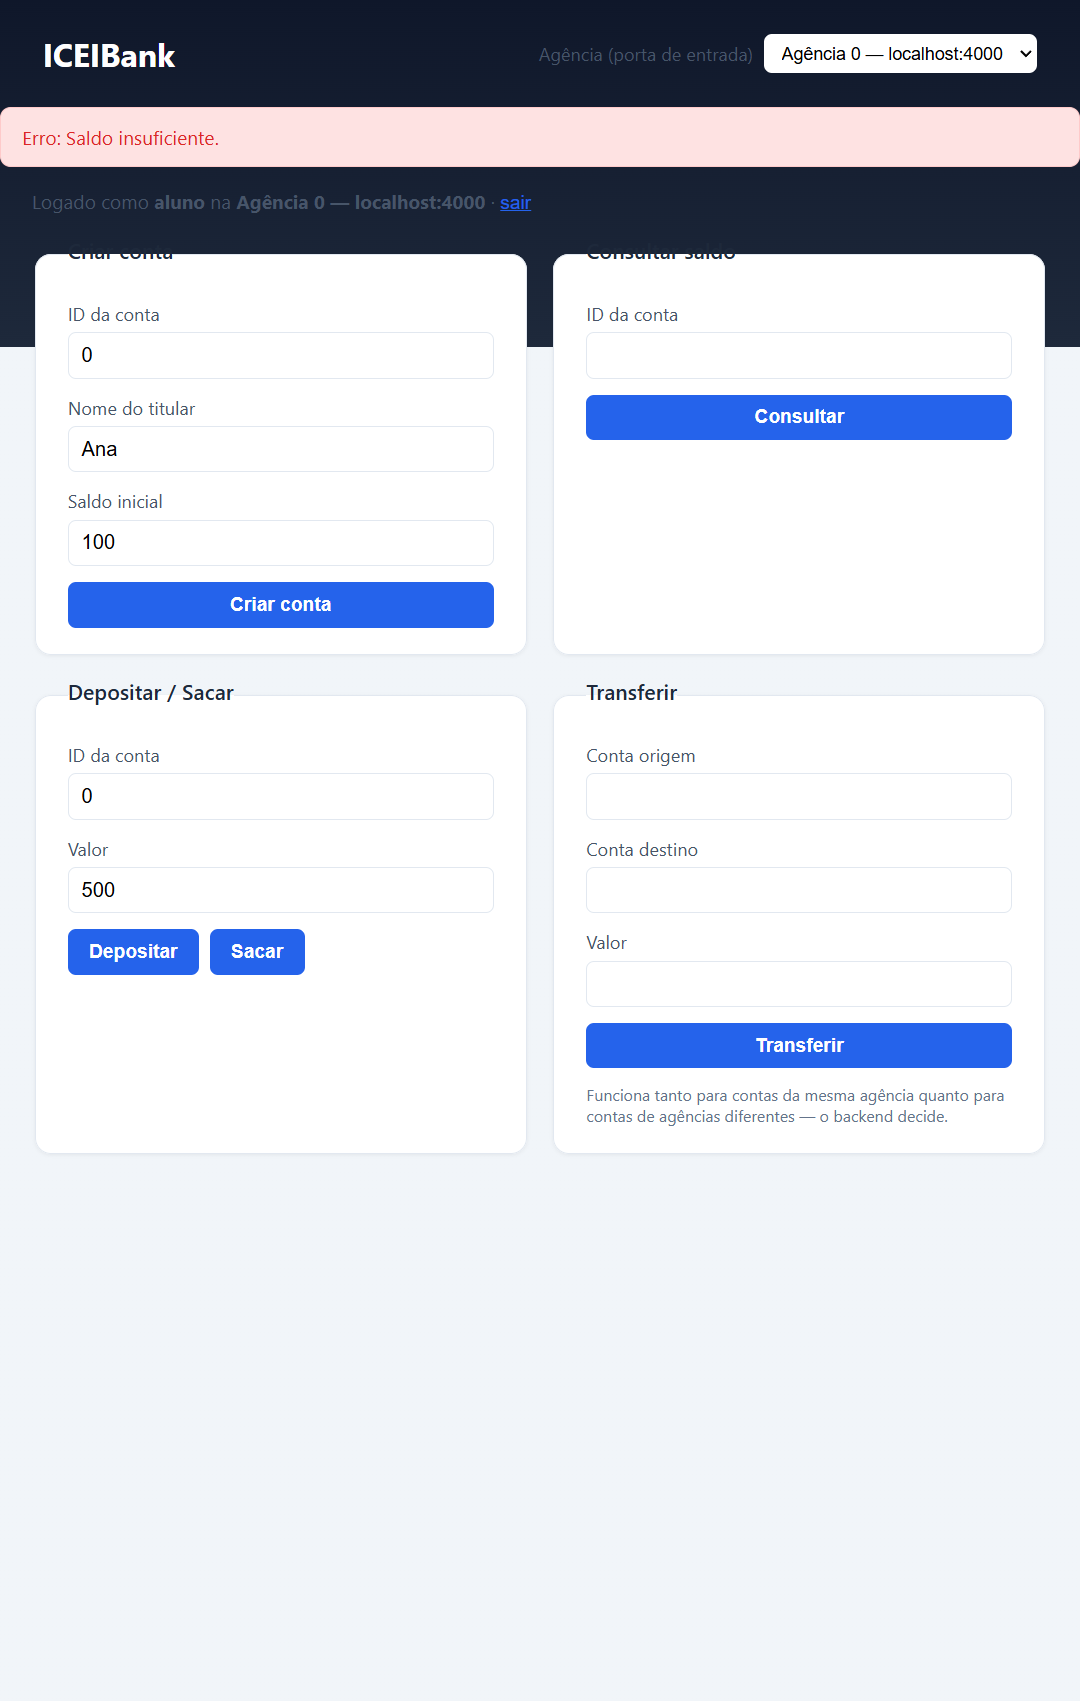
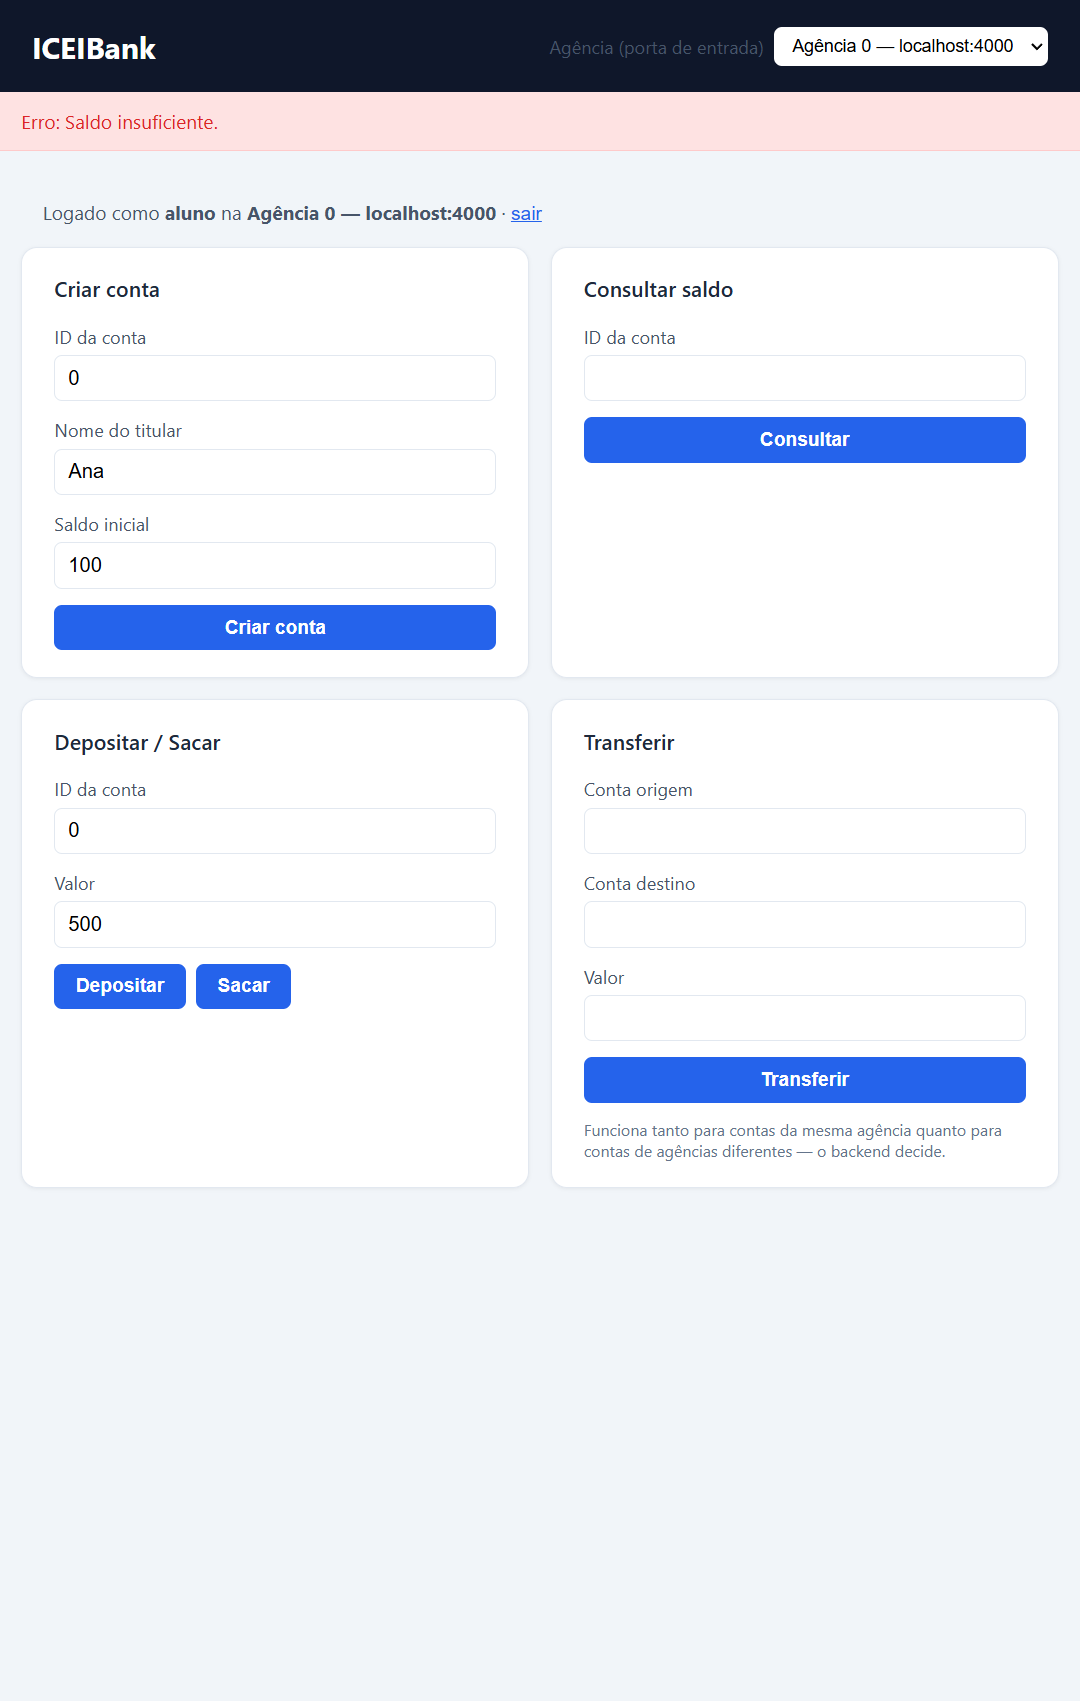
fix(frontend): corrige sobreposicao de layout e melhora responsividade
Causa raiz: <legend> dentro de <fieldset> tem renderizacao especial no
HTML/CSS - o navegador desenha o legend "a cavaleiro" da borda do
fieldset, podendo ficar fora da area de fundo (branca) do card. Como o
fundo da pagina usava um gradiente com parada fixa em 260px (nao
acompanhava a altura real do cabecalho + banner de mensagem, que e
variavel), os titulos dos cards apareciam sobrepostos ao fundo escuro do
cabecalho.

Correcao:
- Troca <fieldset>/<legend> por <div>/<h3> nos 4 cards - elimina de vez o
  comportamento de renderizacao do legend.
- Remove o gradiente de altura fixa; cabecalho vira um bloco de cor solida
  e a pagina usa fundo solido, sem depender da altura do conteudo.
- Adiciona overflow-x: hidden, largura maxima 100% em inputs/select, grid
  com breakpoint auto-fit revisado e uma media query para telas <= 480px.

Testado de verdade em um Chrome real (CDP), em 3 larguras: 1080px
(desktop), 768px (tablet) e 390px (mobile) - sem sobreposicao e sem
overflow horizontal em nenhuma. Screenshots de evidencia
(frontend-login.png, frontend-erro.png, frontend-transferencia.png)
recapturados com o layout corrigido.

Changed region(s): [[0.0, 0.0, 1.0, 0.592], [0.5194, 0.4985, 0.9472, 0.6855], [0.55, 0.4051, 0.6417, 0.4674]]

diff --git a/frontend/styles.css b/frontend/styles.css
@@ -1,5 +1,6 @@
 :root {
-  --cor-fundo: #0f172a;
+  --cor-fundo-pagina: #f1f5f9;
+  --cor-cabecalho: #0f172a;
   --cor-cartao: #ffffff;
   --cor-texto: #1e293b;
   --cor-primaria: #2563eb;
@@ -13,27 +14,36 @@
   box-sizing: border-box;
 }
 
+html,
+body {
+  max-width: 100%;
+  overflow-x: hidden;
+}
+
 body {
   margin: 0;
   font-family: system-ui, -apple-system, "Segoe UI", sans-serif;
-  background: linear-gradient(180deg, var(--cor-fundo) 0%, #1e293b 260px, #f1f5f9 260px);
+  background: var(--cor-fundo-pagina);
   color: var(--cor-texto);
   min-height: 100vh;
 }
 
+/* Cabecalho: cor solida, altura definida pelo proprio conteudo - nunca
+   depende de quanto o resto da pagina mede (era a causa da sobreposicao). */
 .topo {
   display: flex;
   justify-content: space-between;
   align-items: center;
   flex-wrap: wrap;
-  gap: 1rem;
-  padding: 1.5rem 2rem;
+  gap: 0.75rem 1.5rem;
+  padding: 1.25rem 1.5rem;
+  background: var(--cor-cabecalho);
   color: white;
 }
 
 .topo h1 {
   margin: 0;
-  font-size: 1.5rem;
+  font-size: 1.4rem;
 }
 
 .agencia-config {
@@ -41,38 +51,40 @@ body {
   align-items: center;
   gap: 0.5rem;
   font-size: 0.85rem;
+  flex-wrap: wrap;
 }
 
 .agencia-config select {
   padding: 0.4rem 0.6rem;
   border-radius: 6px;
   border: none;
+  max-width: 100%;
 }
 
 main {
   max-width: 960px;
   margin: 0 auto;
-  padding: 0 1.5rem 3rem;
+  padding: 1.5rem 1rem 3rem;
 }
 
 .mensagem {
   max-width: 960px;
-  margin: 0 auto 1rem;
+  margin: 0 auto;
   padding: 0.75rem 1rem;
-  border-radius: 8px;
+  border-radius: 0;
   font-size: 0.9rem;
 }
 
 .mensagem.erro {
   background: #fee2e2;
   color: var(--cor-erro);
-  border: 1px solid #fecaca;
+  border-bottom: 1px solid #fecaca;
 }
 
 .mensagem.sucesso {
   background: #dcfce7;
   color: var(--cor-sucesso);
-  border: 1px solid #bbf7d0;
+  border-bottom: 1px solid #bbf7d0;
 }
 
 .cartao {
@@ -83,18 +95,19 @@ main {
   box-shadow: 0 1px 3px rgba(0, 0, 0, 0.06);
 }
 
+.cartao h3 {
+  margin: 0 0 1rem;
+  font-size: 1rem;
+  font-weight: 600;
+}
+
 #secao-login {
   max-width: 360px;
   margin: 2rem auto 0;
 }
 
-fieldset {
-  border: none;
-}
-
-legend {
-  font-weight: 600;
-  padding: 0 0 0.5rem;
+#secao-login h2 {
+  margin-top: 0;
 }
 
 form {
@@ -112,6 +125,7 @@ label {
 }
 
 input {
+  width: 100%;
   padding: 0.5rem 0.6rem;
   border: 1px solid var(--cor-borda);
   border-radius: 6px;
@@ -136,6 +150,7 @@ button:hover {
 .botoes {
   display: flex;
   gap: 0.5rem;
+  flex-wrap: wrap;
 }
 
 .link {
@@ -149,11 +164,15 @@ button:hover {
 .sessao {
   color: #475569;
   font-size: 0.9rem;
+  padding: 0.75rem 1rem 0;
+  margin: 0;
+  max-width: 960px;
+  margin-inline: auto;
 }
 
 .grade {
   display: grid;
-  grid-template-columns: repeat(auto-fit, minmax(280px, 1fr));
+  grid-template-columns: repeat(auto-fit, minmax(260px, 1fr));
   gap: 1rem;
   margin-top: 1rem;
 }
@@ -161,10 +180,22 @@ button:hover {
 .resultado {
   font-weight: 600;
   min-height: 1.2em;
+  overflow-wrap: anywhere;
 }
 
 .dica {
   font-size: 0.75rem;
   color: #64748b;
   margin: 0;
+}
+
+@media (max-width: 480px) {
+  .topo {
+    flex-direction: column;
+    align-items: flex-start;
+  }
+
+  .cartao {
+    padding: 1rem;
+  }
 }

diff --git a/frontend/index.html b/frontend/index.html
@@ -43,27 +43,27 @@
       </p>
 
       <div class="grade">
-        <fieldset class="cartao">
-          <legend>Criar conta</legend>
+        <div class="cartao">
+          <h3>Criar conta</h3>
           <form id="form-criar-conta">
             <label>ID da conta <input type="number" id="criar-id" min="0" required /></label>
             <label>Nome do titular <input type="text" id="criar-nome" required /></label>
             <label>Saldo inicial <input type="number" id="criar-saldo" value="0" min="0" step="0.01" /></label>
             <button type="submit">Criar conta</button>
           </form>
-        </fieldset>
+        </div>
 
-        <fieldset class="cartao">
-          <legend>Consultar saldo</legend>
+        <div class="cartao">
+          <h3>Consultar saldo</h3>
           <form id="form-saldo">
             <label>ID da conta <input type="number" id="saldo-id" min="0" required /></label>
             <button type="submit">Consultar</button>
           </form>
           <p id="resultado-saldo" class="resultado"></p>
-        </fieldset>
+        </div>
 
-        <fieldset class="cartao">
-          <legend>Depositar / Sacar</legend>
+        <div class="cartao">
+          <h3>Depositar / Sacar</h3>
           <form id="form-deposito-saque">
             <label>ID da conta <input type="number" id="ds-id" min="0" required /></label>
             <label>Valor <input type="number" id="ds-valor" min="0.01" step="0.01" required /></label>
@@ -72,10 +72,10 @@
               <button type="submit" data-acao="sacar">Sacar</button>
             </div>
           </form>
-        </fieldset>
+        </div>
 
-        <fieldset class="cartao">
-          <legend>Transferir</legend>
+        <div class="cartao">
+          <h3>Transferir</h3>
           <form id="form-transferencia">
             <label>Conta origem <input type="number" id="tr-origem" min="0" required /></label>
             <label>Conta destino <input type="number" id="tr-destino" min="0" required /></label>
@@ -83,7 +83,7 @@
             <button type="submit">Transferir</button>
             <p class="dica">Funciona tanto para contas da mesma agência quanto para contas de agências diferentes — o backend decide.</p>
           </form>
-        </fieldset>
+        </div>
       </div>
     </section>
   </main>
